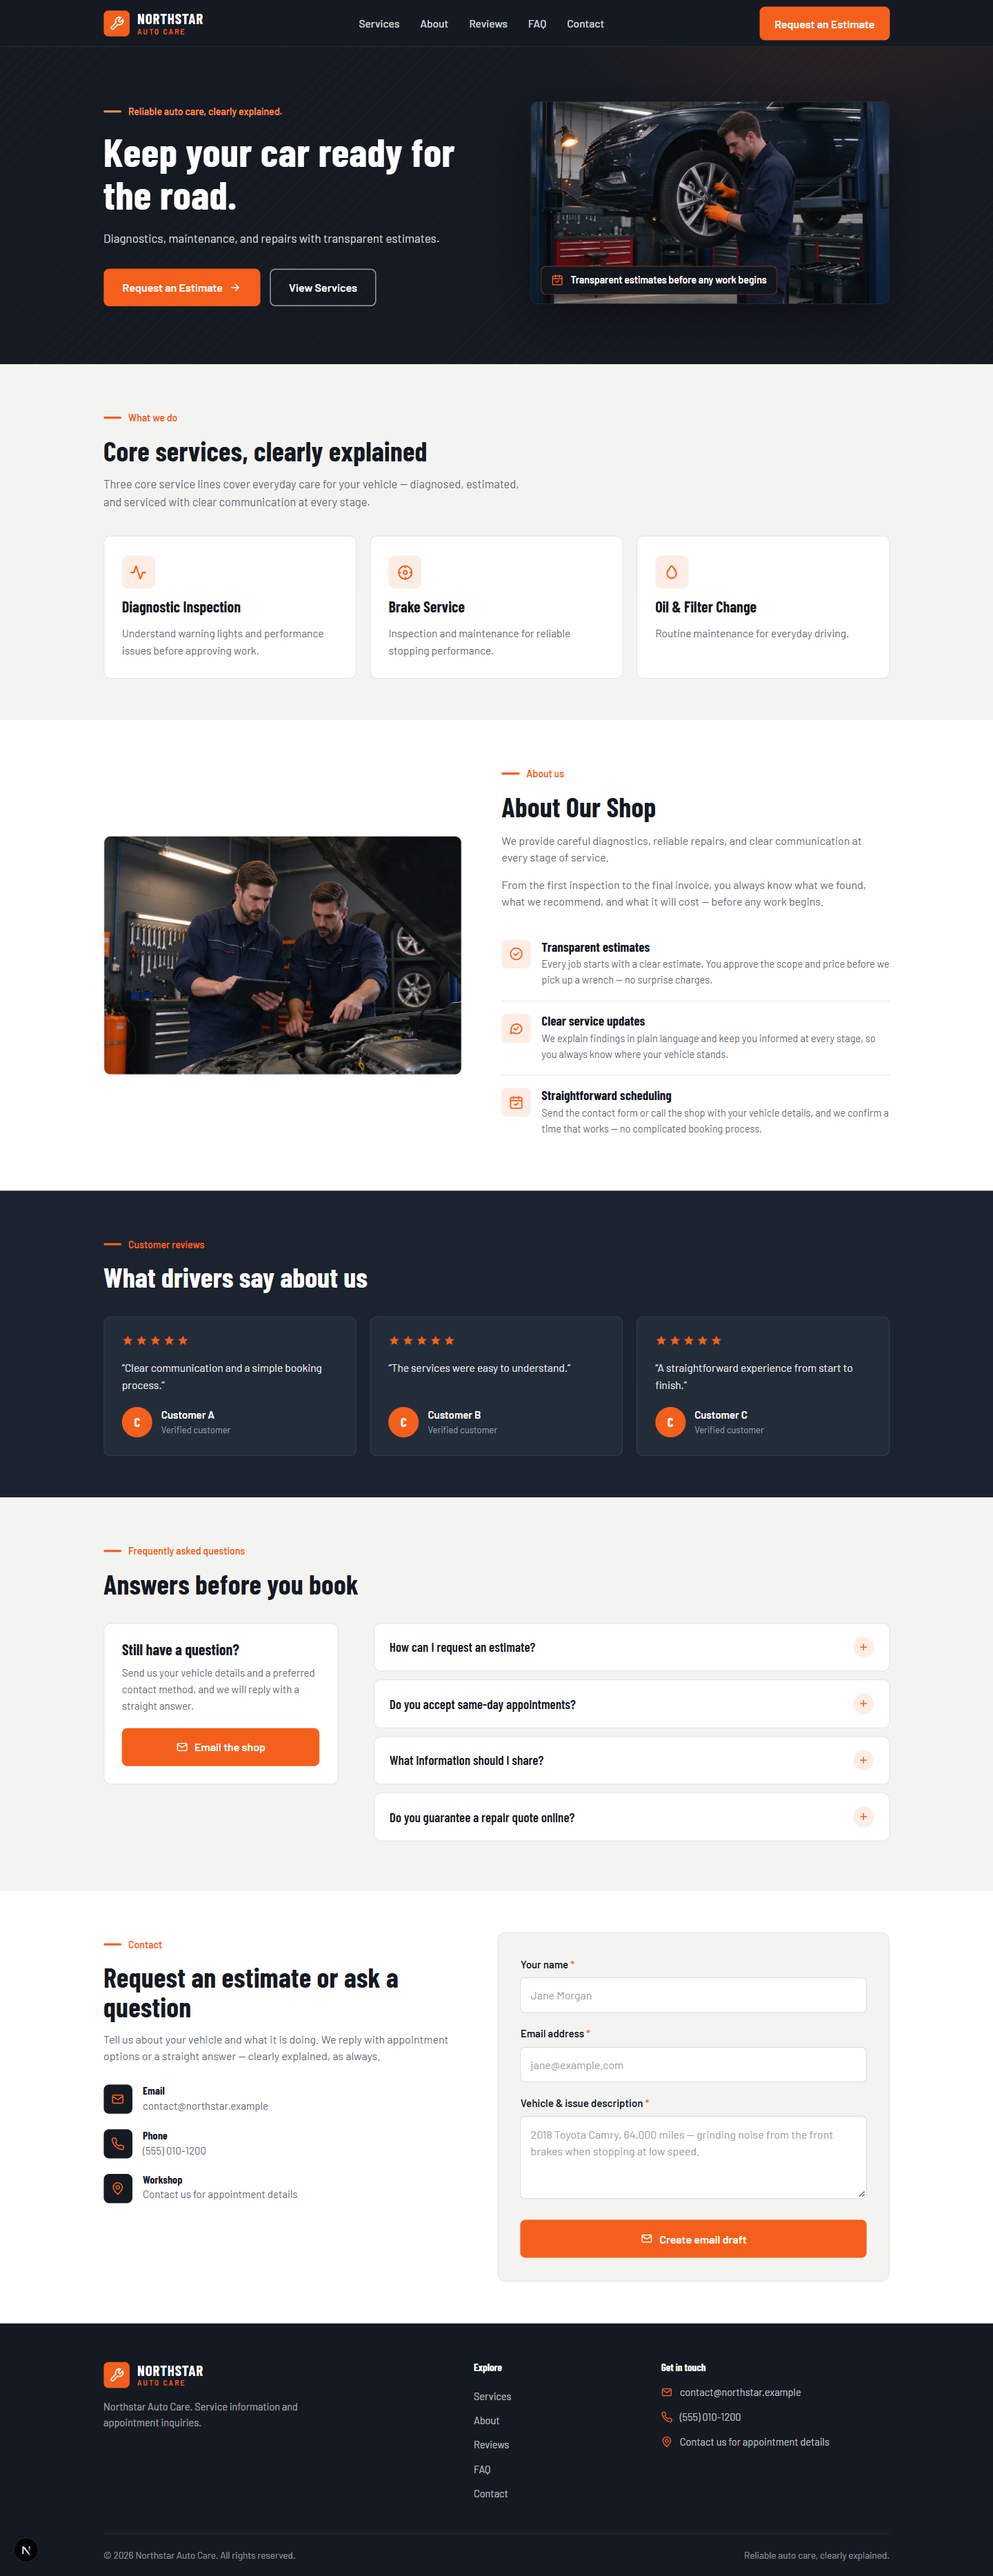
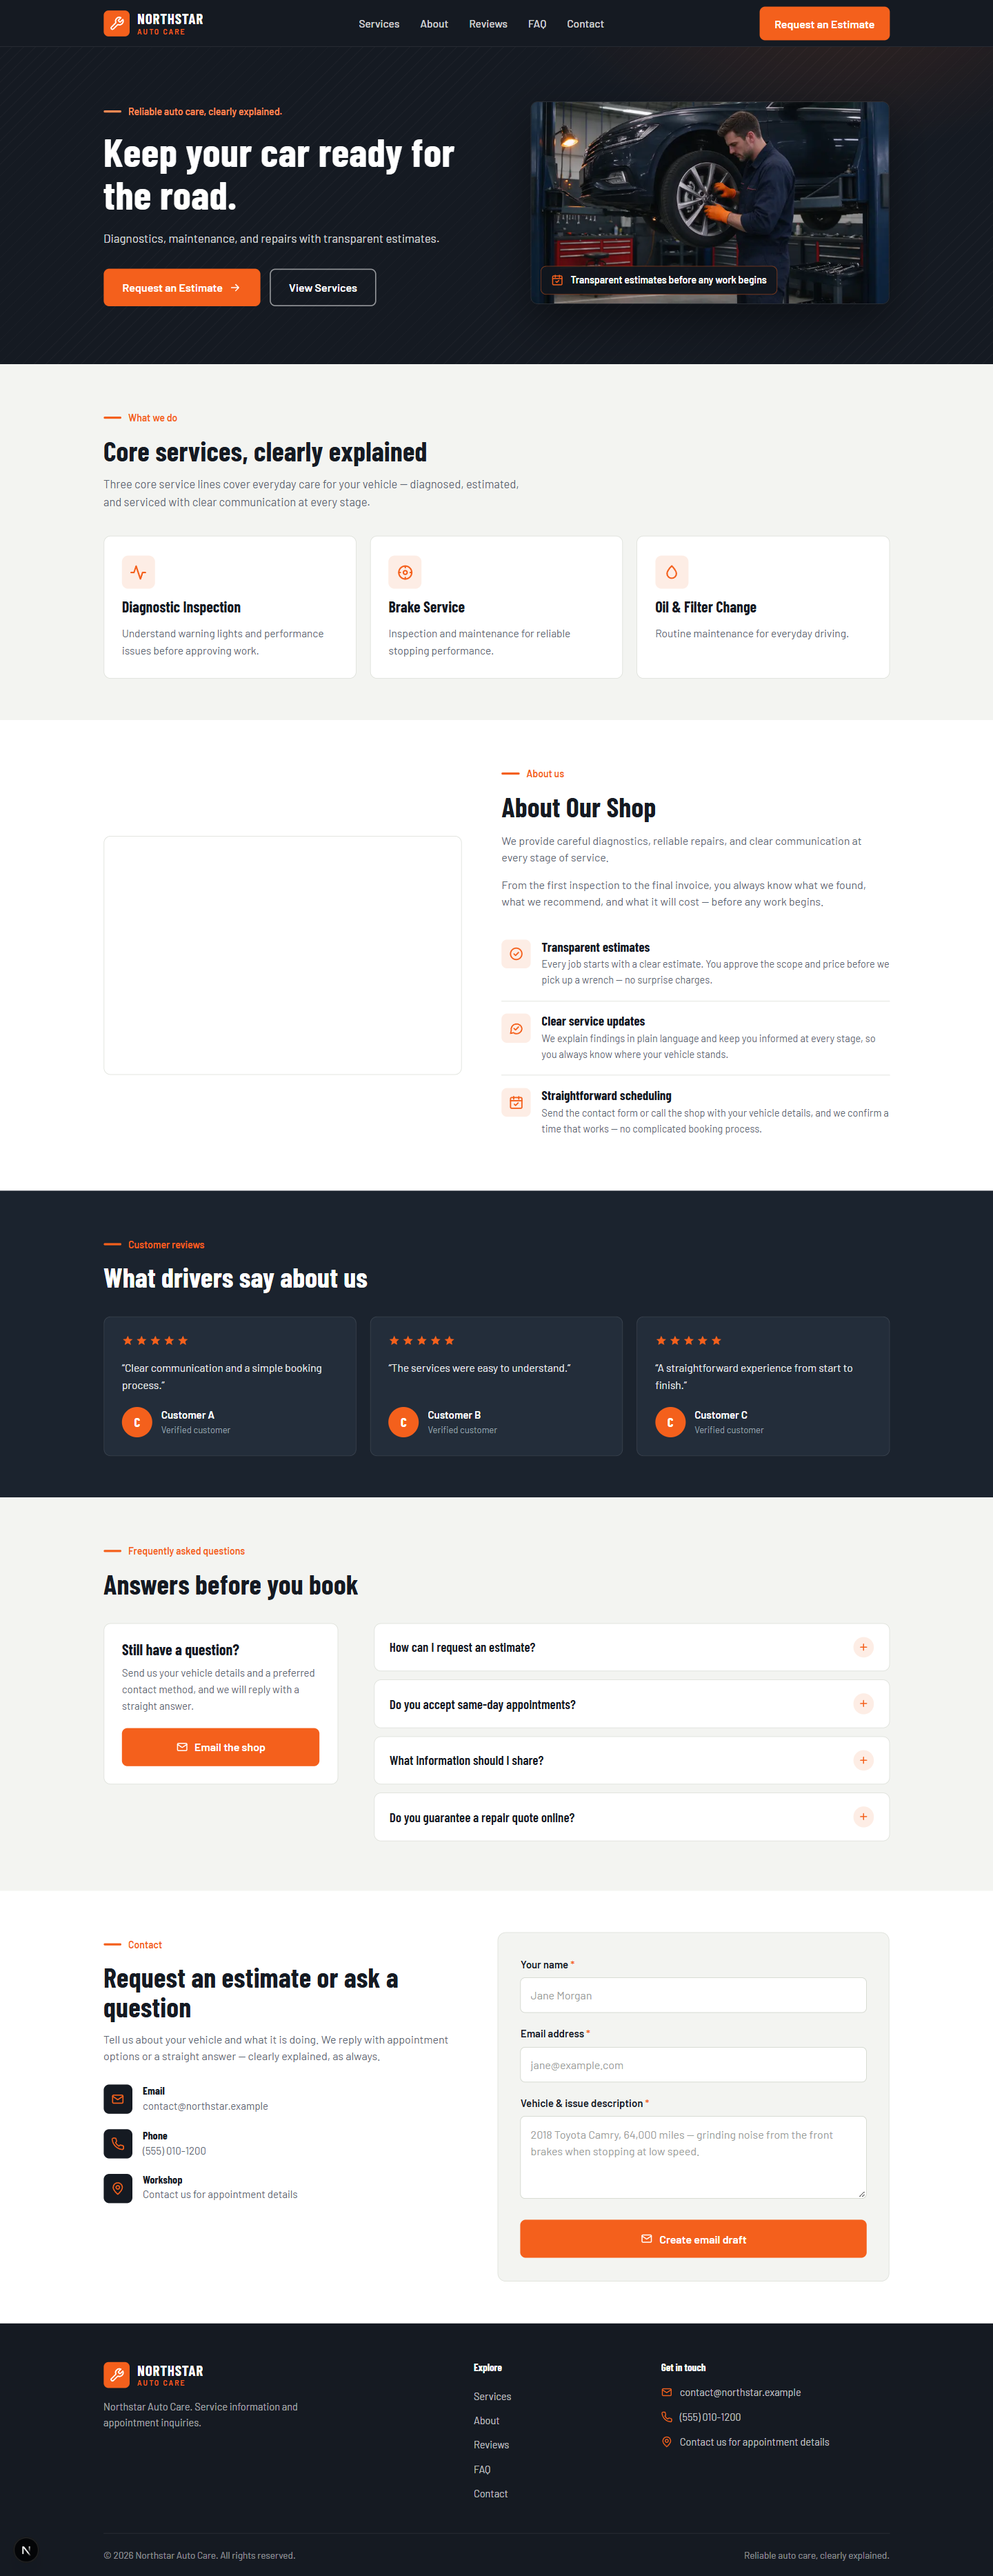
Add final acceptance screenshots and interaction demo images

Changed region(s): [[0.0938, 0.3106, 0.4688, 0.4348]]

diff --git a/README.md b/README.md
@@ -48,7 +48,7 @@ npm run start    # 以生产模式启动
 - 联系表单前端校验：姓名 ≥ 2 字符、邮箱格式、问题描述 ≥ 10 字符；错误显示在对应控件附近，无效不提交
 - 校验通过后生成 `mailto:` 邮件草稿（主题 + 含姓名/邮箱/问题描述的正文）
 - 响应式断点覆盖 375px / 768px / 1440px，375px 无横向溢出
-- 三档宽度整页截图见 [screenshots/](./screenshots/)
+- 三档宽度整页截图见 [screenshots/](./screenshots/)；关键交互演示（移动端菜单展开、FAQ 展开、表单校验错误、提交成功）见 [screenshots/interactions/](./screenshots/interactions/)
 
 ## 项目结构
 
